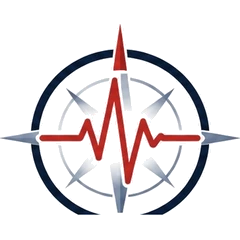
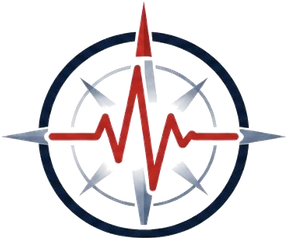
Panels: whole Panorama compass; Recon off the box edge
- Panorama: the emblem is re-cut from the full Panorama logo, so the whole
  circle and all four compass points show (the app's mark file is cut flat
  at the bottom). It sits in a 144 x 120 box: the points reach past the
  circle, and this keeps the circle the same size as the round emblems.
  Night version re-cut the same way from the night logo.
- Recon: scaled to 97% so its pulse line no longer touches the box edges.
- Every emblem checked: no artwork touches its canvas edge, day or night.

Claude-Session: https://claude.ai/code/session_01Uwm6ZkpR3p9E4rJsdbscVQ

Changed region(s): [[0.0, 0.0, 1.0, 0.9917], [0.3792, 0.6417, 0.4375, 0.7]]

diff --git a/index.html b/index.html
@@ -568,7 +568,7 @@ header{position:sticky;top:0;z-index:50;background:rgba(13,21,54,.96);backdrop-f
     <p class="capsnote"><b>Independent applications. Shared intelligence.</b> Use one, combine several, or connect your own data. No application is compulsory: each works on its own, and the intelligence reads whichever you run. Your other systems connect by API, by CSV upload, or by importing the Excel scorecard you already keep.</p>
     <ul class="panels" role="list">
       <li><a class="panel" href="/systems/cash/" aria-label="Pulsus Cash — Cash &amp; Liquidity Intelligence. Learn more"><picture><source srcset="/img/emblems/cash-night.webp" media="(prefers-color-scheme: dark)"><img src="/img/emblems/cash.webp" width="120" height="120" alt="" loading="lazy" decoding="async"></picture><span class="pn-name">Pulsus <b>Cash</b></span><span class="pn-sub">Cash &amp; Liquidity Intelligence</span><span class="pn-tag">Live. <b>Signal.</b> Clarity.</span><span class="pn-more">Learn more <span class="arw" aria-hidden="true">→</span></span></a></li>
-      <li><a class="panel" href="/systems/panorama/" aria-label="Pulsus Panorama — Balanced Scorecard. Learn more"><picture><source srcset="/img/emblems/panorama-night.webp" media="(prefers-color-scheme: dark)"><img src="/img/emblems/panorama.webp" width="120" height="120" alt="" loading="lazy" decoding="async"></picture><span class="pn-name">Pulsus <b>Panorama</b></span><span class="pn-sub">Balanced Scorecard</span><span class="pn-tag">Live. <b>Signal.</b> Clarity.</span><span class="pn-more">Learn more <span class="arw" aria-hidden="true">→</span></span></a></li>
+      <li><a class="panel" href="/systems/panorama/" aria-label="Pulsus Panorama — Balanced Scorecard. Learn more"><picture><source srcset="/img/emblems/panorama-night.webp" media="(prefers-color-scheme: dark)"><img class="pn-wide" src="/img/emblems/panorama.webp" width="144" height="120" alt="" loading="lazy" decoding="async"></picture><span class="pn-name">Pulsus <b>Panorama</b></span><span class="pn-sub">Balanced Scorecard</span><span class="pn-tag">Live. <b>Signal.</b> Clarity.</span><span class="pn-more">Learn more <span class="arw" aria-hidden="true">→</span></span></a></li>
       <li><a class="panel" href="https://recon.pulsus.tech/welcome" aria-label="Pulsus Recon — Reconciliation &amp; Settlement. Learn more"><picture><source srcset="/img/emblems/recon-night.webp" media="(prefers-color-scheme: dark)"><img src="/img/emblems/recon.webp" width="120" height="120" alt="" loading="lazy" decoding="async"></picture><span class="pn-name">Pulsus <b>Recon</b></span><span class="pn-sub">Reconciliation &amp; Settlement</span><span class="pn-tag">Live. <b>Signal.</b> Clarity.</span><span class="pn-more">Learn more <span class="arw" aria-hidden="true">→</span></span></a></li>
       <li><a class="panel" href="/systems/risk/" aria-label="Pulsus Risk — Risk, Compliance and Findings. Learn more"><picture><source srcset="/img/emblems/risk-night.webp" media="(prefers-color-scheme: dark)"><img src="/img/emblems/risk.webp" width="120" height="120" alt="" loading="lazy" decoding="async"></picture><span class="pn-name">Pulsus <b>Risk</b></span><span class="pn-sub">Risk, Compliance and Findings</span><span class="pn-tag">Live. <b>Signal.</b> Clarity.</span><span class="pn-more">Learn more <span class="arw" aria-hidden="true">→</span></span></a></li>
       <li><a class="panel" href="/systems/quality/" aria-label="Pulsus Quality — Quality Assurance. Learn more"><picture><source srcset="/img/emblems/quality-night.webp" media="(prefers-color-scheme: dark)"><img src="/img/emblems/quality.webp" width="120" height="120" alt="" loading="lazy" decoding="async"></picture><span class="pn-name">Pulsus <b>Quality</b></span><span class="pn-sub">Quality Assurance</span><span class="pn-tag">Live. <b>Signal.</b> Clarity.</span><span class="pn-more">Learn more <span class="arw" aria-hidden="true">→</span></span></a></li>

diff --git a/products/index.html b/products/index.html
@@ -64,7 +64,7 @@
     <div class="sec-head"><p class="eyebrow">The applications</p><h2>The apps that feed the platform.</h2><p>Each one runs its own job and sends its readings to the same Operational Health.</p></div>
     <ul class="panels" role="list">
       <li><a class="panel" href="/systems/cash/" aria-label="Pulsus Cash — Cash &amp; Liquidity Intelligence. Learn more"><picture><source srcset="/img/emblems/cash-night.webp" media="(prefers-color-scheme: dark)"><img src="/img/emblems/cash.webp" width="120" height="120" alt="" loading="lazy" decoding="async"></picture><span class="pn-name">Pulsus <b>Cash</b></span><span class="pn-sub">Cash &amp; Liquidity Intelligence</span><span class="pn-tag">Live. <b>Signal.</b> Clarity.</span><span class="pn-more">Learn more <span class="arw" aria-hidden="true">→</span></span></a></li>
-      <li><a class="panel" href="/systems/panorama/" aria-label="Pulsus Panorama — Balanced Scorecard. Learn more"><picture><source srcset="/img/emblems/panorama-night.webp" media="(prefers-color-scheme: dark)"><img src="/img/emblems/panorama.webp" width="120" height="120" alt="" loading="lazy" decoding="async"></picture><span class="pn-name">Pulsus <b>Panorama</b></span><span class="pn-sub">Balanced Scorecard</span><span class="pn-tag">Live. <b>Signal.</b> Clarity.</span><span class="pn-more">Learn more <span class="arw" aria-hidden="true">→</span></span></a></li>
+      <li><a class="panel" href="/systems/panorama/" aria-label="Pulsus Panorama — Balanced Scorecard. Learn more"><picture><source srcset="/img/emblems/panorama-night.webp" media="(prefers-color-scheme: dark)"><img class="pn-wide" src="/img/emblems/panorama.webp" width="144" height="120" alt="" loading="lazy" decoding="async"></picture><span class="pn-name">Pulsus <b>Panorama</b></span><span class="pn-sub">Balanced Scorecard</span><span class="pn-tag">Live. <b>Signal.</b> Clarity.</span><span class="pn-more">Learn more <span class="arw" aria-hidden="true">→</span></span></a></li>
       <li><a class="panel" href="https://recon.pulsus.tech/welcome" aria-label="Pulsus Recon — Reconciliation &amp; Settlement. Learn more"><picture><source srcset="/img/emblems/recon-night.webp" media="(prefers-color-scheme: dark)"><img src="/img/emblems/recon.webp" width="120" height="120" alt="" loading="lazy" decoding="async"></picture><span class="pn-name">Pulsus <b>Recon</b></span><span class="pn-sub">Reconciliation &amp; Settlement</span><span class="pn-tag">Live. <b>Signal.</b> Clarity.</span><span class="pn-more">Learn more <span class="arw" aria-hidden="true">→</span></span></a></li>
       <li><a class="panel" href="/systems/risk/" aria-label="Pulsus Risk — Risk, Compliance and Findings. Learn more"><picture><source srcset="/img/emblems/risk-night.webp" media="(prefers-color-scheme: dark)"><img src="/img/emblems/risk.webp" width="120" height="120" alt="" loading="lazy" decoding="async"></picture><span class="pn-name">Pulsus <b>Risk</b></span><span class="pn-sub">Risk, Compliance and Findings</span><span class="pn-tag">Live. <b>Signal.</b> Clarity.</span><span class="pn-more">Learn more <span class="arw" aria-hidden="true">→</span></span></a></li>
       <li><a class="panel" href="/systems/quality/" aria-label="Pulsus Quality — Quality Assurance. Learn more"><picture><source srcset="/img/emblems/quality-night.webp" media="(prefers-color-scheme: dark)"><img src="/img/emblems/quality.webp" width="120" height="120" alt="" loading="lazy" decoding="async"></picture><span class="pn-name">Pulsus <b>Quality</b></span><span class="pn-sub">Quality Assurance</span><span class="pn-tag">Live. <b>Signal.</b> Clarity.</span><span class="pn-more">Learn more <span class="arw" aria-hidden="true">→</span></span></a></li>

diff --git a/assets/panels.css b/assets/panels.css
@@ -32,6 +32,9 @@
 .panel:focus-visible{outline:3px solid var(--pn-focus);outline-offset:3px}
 .panel picture{display:block}
 .panel img{width:120px;height:120px;object-fit:contain;display:block;margin:0 auto}
+/* Panorama's compass points reach past its circle: a wider box keeps all four
+   points whole while the circle reads the same size as the round emblems. */
+.panel img.pn-wide{width:144px}
 .panel .pn-name{
   display:block;margin-top:16px;white-space:nowrap;
   font:800 clamp(24px,6vw,30px)/1.1 'Sora',system-ui,sans-serif;letter-spacing:-.01em;color:var(--pn-navy);
